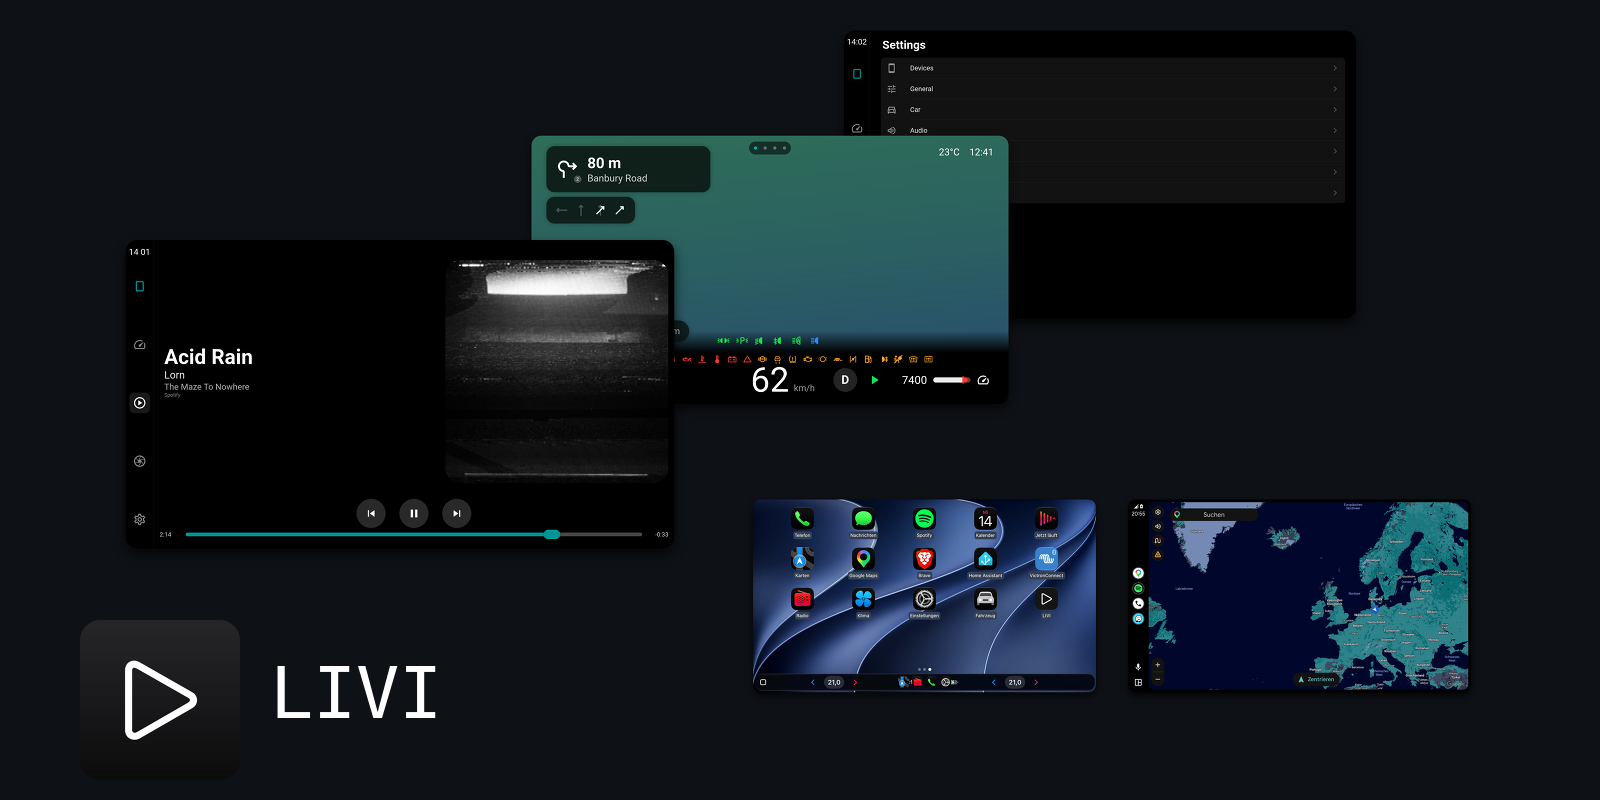
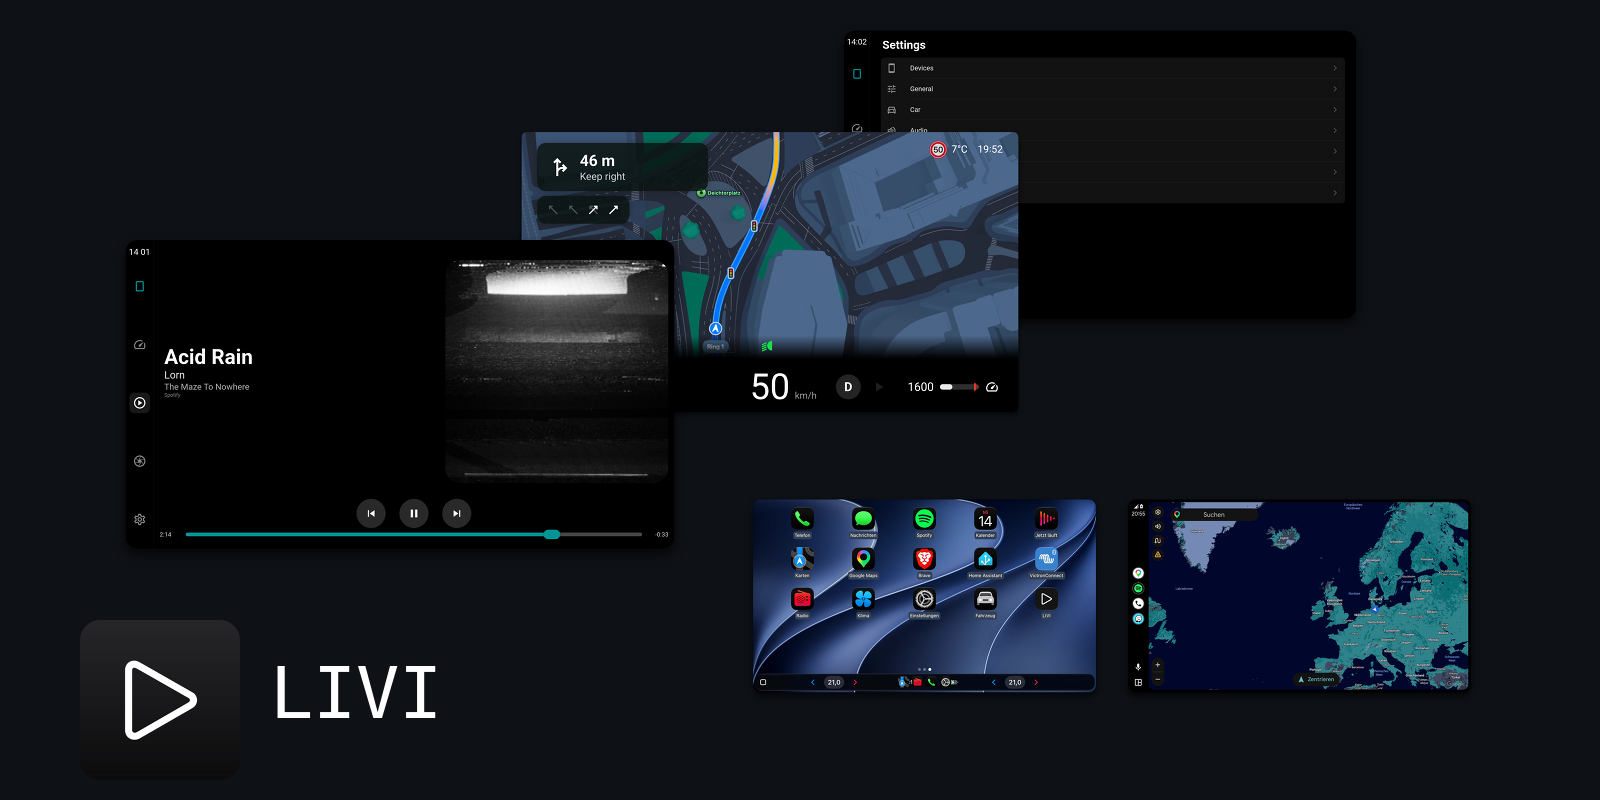
fix(dashboard): highlight the recommended lane arrow

Changed region(s): [[0.3125, 0.1562, 0.6562, 0.5]]

diff --git a/native/crates/livi-ui-model/src/dashboard/nav.rs b/native/crates/livi-ui-model/src/dashboard/nav.rs
@@ -51,7 +51,9 @@ fn lanes(n: &Navigation) -> Vec<Lane> {
                     arrows: l
                         .angles
                         .iter()
-                        .map(|&angle| LaneArrow {
+                        .copied()
+                        .chain(l.highlight_angle.filter(|h| !l.angles.contains(h)))
+                        .map(|angle| LaneArrow {
                             angle,
                             on: l.highlight_angle == Some(angle),
                         })
@@ -181,5 +183,33 @@ mod tests {
             ]
         );
         assert!(guidance(false).lanes.is_empty());
+    }
+
+    #[test]
+    fn the_highlight_angle_is_drawn_when_the_angles_leave_it_out() {
+        let n = nav(&crate::testing::state(json!({ "navigation": {
+            "laneGuidanceShown": true,
+            "laneGuidanceIndex": 2,
+            "laneGuidance": [
+                { "index": 2, "lanes": [
+                    { "status": 0, "angles": [-45] },
+                    { "status": 2, "angles": [-45], "highlightAngle": 45 },
+                    { "status": 2, "angles": [], "highlightAngle": 45 }
+                ] }
+            ]
+        } })));
+        let arrows: Vec<_> = n
+            .lanes
+            .iter()
+            .map(|l| l.arrows.iter().map(|a| (a.angle, a.on)).collect::<Vec<_>>())
+            .collect();
+        assert_eq!(
+            arrows,
+            [
+                vec![(-45, false)],
+                vec![(-45, false), (45, true)],
+                vec![(45, true)]
+            ]
+        );
     }
 }
